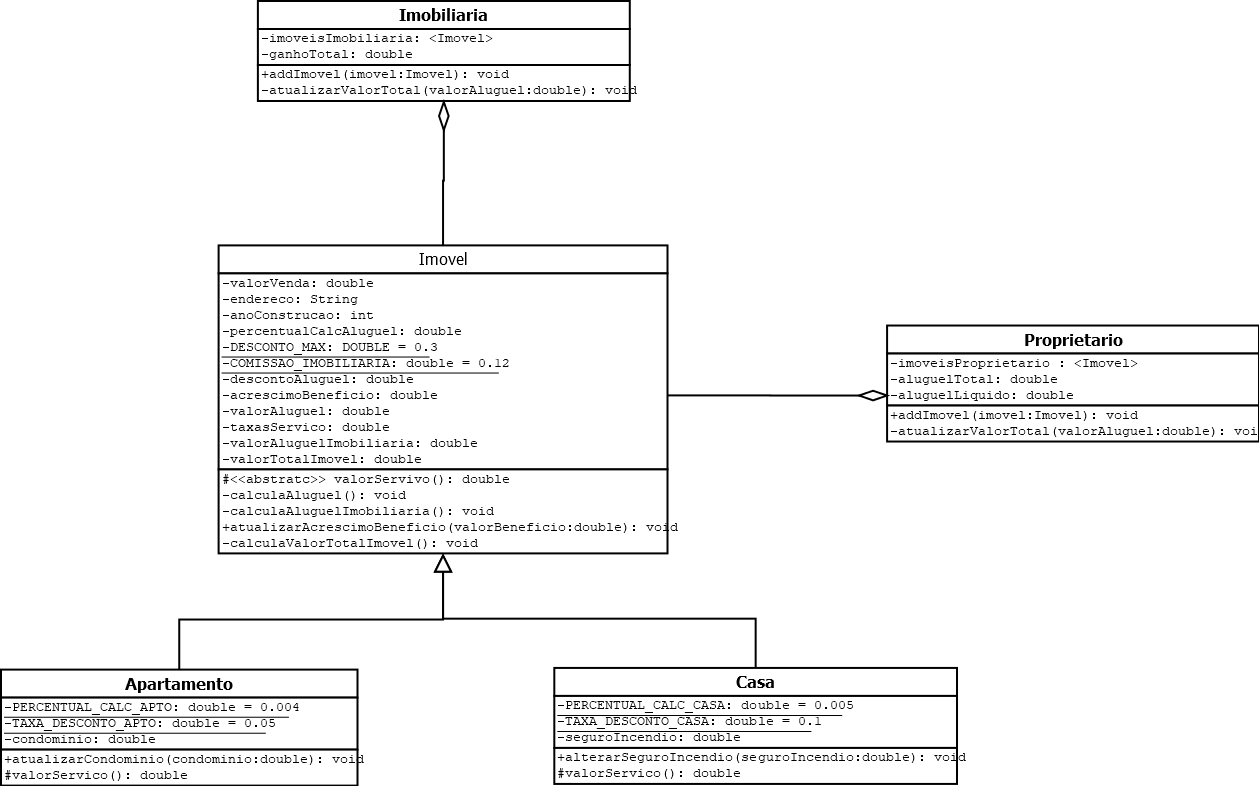
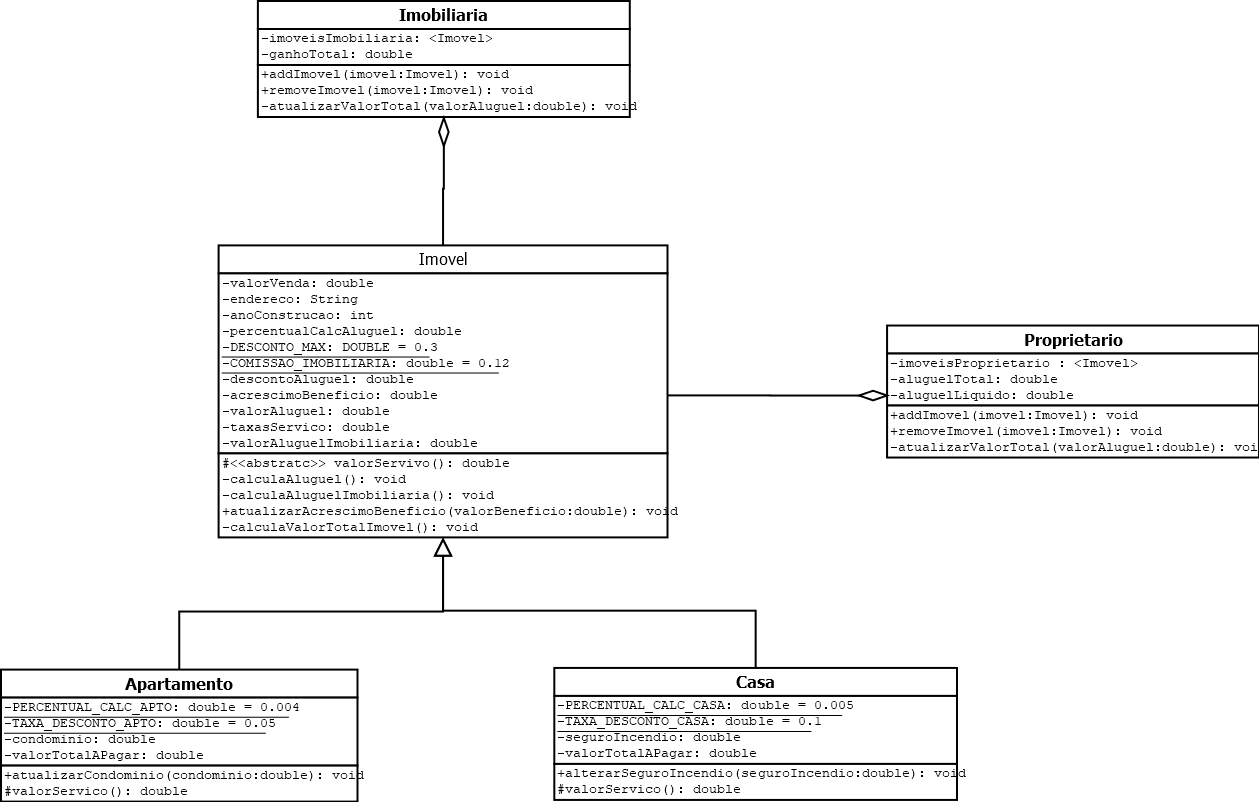
Criação da Classe apartamento

diff --git a/Imovel.java b/Imovel.java
@@ -1,45 +1,87 @@
+import java.util.Calendar;
 
 public abstract class Imovel {
 
-    double valorVenda, percentualCalcAluguel, descontoAluguel, acrescimoBeneficio;
-    double valorAluguel, taxasServico, ValorAluguelImobiliaria,valorTotalImovel;
-    final static double DESCONTO_MAX = 0.3 , COMISSAO_IMOBILIARIA = 0.12;
+    private double valorVenda;
+    private double percentualCalcAluguel;
+    private double taxaDesconto;
+    private double descontoAluguel;
+    private double acrescimoBeneficio;
+    private double valorAluguel;
+    private double ValorAluguelImobiliaria;
+    final static double DESCONTO_MAX = 0.3;
+    final static double COMISSAO_IMOBILIARIA = 0.12;
     String endereco;
     int anoConstrucao;
 
- 
     protected abstract double valorServico();
 
-    public Imovel(String endereco, int anoConstrucao, double valorVenda, double acrescimoBeneficio , double taxasServico,
-    double percentualCalcAluguel , double descontoAluguel){
+    public Imovel(String endereco, int anoConstrucao, double valorVenda, double acrescimoBeneficio,
+    double percentualCalcAluguel , double taxaDesconto){
+
+        inicializar(endereco,anoConstrucao,valorVenda,acrescimoBeneficio,percentualCalcAluguel,taxaDesconto);
 
     }
 
-    private void atualizaAlugueis(){
+    private void inicializar(String endereco, int anoConstrucao, double valorVenda, double acrescimoBeneficio,
+            double percentualCalcAluguel, double taxaDesconto) {
+            
+        this.endereco = endereco;
+        if (anoConstrucao >1800){
+            this.anoConstrucao = anoConstrucao;
+        }
+        else{
+            this.anoConstrucao = 1800;
+        }
+
+        if(valorVenda<=0){
+            valorVenda = 200000;
+        }
+        this.valorVenda = valorVenda;
+        this.acrescimoBeneficio = acrescimoBeneficio;
+        this.percentualCalcAluguel = percentualCalcAluguel;
+        this.taxaDesconto = taxaDesconto;
+        atualizaAlugueis();
+        
+    }
+
+    private void calculaDesconto() {
+        Calendar data = Calendar.getInstance();
+        int anoAtual = data.get(Calendar.YEAR);
+
+        double desconto = ((anoAtual - this.anoConstrucao) / 5) * this.taxaDesconto;
+
+        if (desconto > DESCONTO_MAX) {
+            desconto = DESCONTO_MAX;
+        }
+
+        this.descontoAluguel = desconto;
+    }
+
+    private void atualizaAlugueis() {
+        calculaDesconto();
         calculaAluguel();
         calculaAluguelImobiliaria();
-        calculaValorTotalImovel();
     }
 
-    private void calculaAluguel(){
-        this.valorAluguel = (valorVenda * percentualCalcAluguel) + acrescimoBeneficio;
+    private void calculaAluguel() {
+        this.valorAluguel = ((valorVenda * percentualCalcAluguel) * (1-descontoAluguel)) + acrescimoBeneficio;
     }
 
-    private void calculaAluguelImobiliaria(){
+    private void calculaAluguelImobiliaria() {
         this.ValorAluguelImobiliaria = this.valorAluguel * COMISSAO_IMOBILIARIA;
     }
 
-    private void calculaValorTotalImovel(){
-        this.ValorAluguelImobiliaria = this.valorAluguel + taxasServico;
-    }
-
     /**
-     * Inserir valor do aluguel relacionado a beneficios do imovel. Apenas valores maior que zero são validos.
-     * Caso um valor invalido for inserido, o valor referente ao beneficio não será atualizado.
+     * Inserir valor do aluguel relacionado a beneficios do imovel. Apenas valores
+     * maior que zero são validos.
+     * Caso um valor invalido for inserido, o valor referente ao beneficio não será
+     * atualizado.
+     * 
      * @param valorBeneficio
      */
-    public void atualizarAcrescimoBeneficio (double valorBeneficio){
-        if (valorBeneficio>0){
+    public void atualizarAcrescimoBeneficio(double valorBeneficio) {
+        if (valorBeneficio > 0) {
             this.acrescimoBeneficio = valorBeneficio;
             atualizaAlugueis();
         }
@@ -48,62 +90,61 @@ public abstract class Imovel {
     // Metodos SET
     /**
      * Atualizar o valor de venda do imovel.
-     * Apenas valores maiores que zero são validos. Caso seja inserido um valor invalido, não haverá atualização.
+     * Apenas valores maiores que zero são validos. Caso seja inserido um valor
+     * invalido, não haverá atualização.
+     * 
      * @param valorVenda
      */
-    public void setValorVenda(double valorVenda){
-        if (valorVenda>0){
+    public void setValorVenda(double valorVenda) {
+        if (valorVenda > 0) {
             this.valorVenda = valorVenda;
             atualizaAlugueis();
         }
     }
-    /** 
+
+    /**
      * Atualizar Endereço do imovel.
-     *Caso seja inserido um valor invalido, não haverá atualização.
+     * Caso seja inserido um valor invalido, não haverá atualização.
+     * 
      * @param endereco
      */
-    public void setEndereco(String endereco){
-        if(!endereco.isEmpty()){
+    public void setEndereco(String endereco) {
+        if (!endereco.isEmpty()) {
             this.endereco = endereco;
         }
     }
-    
+
     /**
      * Atualizar Ano de Construção do imovel.
-     * Apenas valores maior que 1800 são validos. Caso seja inserido um valor invalido, não haverá atualização.
+     * Apenas valores maior que 1800 são validos. Caso seja inserido um valor
+     * invalido, não haverá atualização.
+     * 
      * @param anoConstrucao
      */
-    public void setAnoConstrucao(int anoConstrucao){
-        if (anoConstrucao>1800){
+    public void setAnoConstrucao(int anoConstrucao) {
+        if (anoConstrucao > 1800) {
             this.anoConstrucao = anoConstrucao;
+            calculaAluguel();
         }
     }
 
     // Metodos GET
     /**
      * Retornona o valor do aluguel refente ao Imovel.
+     * 
      * @return
      */
-    public double getValorAluguel(){
+    public double getValorAluguel() {
         return this.valorAluguel;
     }
 
     /**
      * Retorna o valor do percentual do aluguel que é a comissão da imobiliaria.
+     * 
      * @return
      */
-    public double getValorAluguelImobiliaria(){
-        return this.getValorAluguel();
-    }
-
-    /**
-     * Retona o valor todo pago no Imovel, incluindo as taxas de serviço.
-     * @return
-     */
-    public double getValorTotalImovel(){
-        return this.valorTotalImovel;
+    public double getValorAluguelImobiliaria() {
+        return this.ValorAluguelImobiliaria;
     }
 
 }
-
-

diff --git a/Casa.java b/Casa.java
@@ -1,44 +1,44 @@
-public class Apartamento extends Imovel {
+public class Casa extends Imovel {
 
-    final static double PERCENTUAL_CALC_APTO = 0.004;
-    final static double TAXA_DESCONTO_APTO = 0.05;
-    private double condominio;
+    final static double PERCENTUAL_CALC_CASA = 0.005;
+    final static double TAXA_DESCONTO_CASA = 0.1;
+    private double seguroIncendio;
     private double valorTotalAPagar;
 
     /**
      * Cria um novo apartamento como obejto. 
      * Caso o valor de venda inserirdo seja invalido, será considerado um valor de R$200.000,00.
      * Caso o ano de Construção inserido seja invalido (menor que 1800), será considerado o ano de 1800.
-     * Caso o valor de condominio inserido seja invalido, a taxa será considerada 0.
+     * Caso o valor de taxa de incencio inserido seja invalido, a taxa será considerada 0.
      * @param endereco
      * @param anoConstrucao
      * @param valorVenda
      * @param acrescimoBeneficio
      * @param condominio
      */
-    public Apartamento(String endereco, int anoConstrucao, double valorVenda, double acrescimoBeneficio , double condominio){
-        super(endereco,anoConstrucao,valorVenda,acrescimoBeneficio,PERCENTUAL_CALC_APTO,TAXA_DESCONTO_APTO);
-        inicializar(condominio);
+    public Casa(String endereco, int anoConstrucao, double valorVenda, double acrescimoBeneficio , double seguroIncendio){
+        super(endereco,anoConstrucao,valorVenda,acrescimoBeneficio,PERCENTUAL_CALC_CASA,TAXA_DESCONTO_CASA);
+        inicializar(seguroIncendio);
     }      
     
     
-    private void inicializar(double condominio) {
-        if(condominio<0){
-            condominio = 0 ;
+    private void inicializar(double seguroIncendio) {
+        if(seguroIncendio<0){
+            seguroIncendio = 0 ;
         }
-        atualizaCondominio(condominio);
+        atualizaSeguroIncendio(seguroIncendio);
         valorServico();
     }
 
 
     /**
-     * Atualizar o valor do condominio do apartamento.
+     * Atualizar o valor do Seguro Incendio da  Casa.
      * Apenas valores maiores ou iguais a zero são validos. Caso seja inserido um valor invalido, não haverá atualização.
      * @param condominio
      */
-     public void atualizaCondominio(double condominio){
-        if(condominio>=0){
-            this.condominio = condominio;
+     public void atualizaSeguroIncendio(double seguroIncendio){
+        if(seguroIncendio>=0){
+            this.seguroIncendio = seguroIncendio;
         }
     }
 
@@ -56,7 +56,7 @@ public class Apartamento extends Imovel {
      * @return
      */
     protected double valorServico() {
-        double valorServico = this.condominio;
+        double valorServico = this.seguroIncendio / 12;
         this.valorTotalAPagar = getValorAluguel() + valorServico;
         return valorServico;
     }

diff --git a/Proprietario.java b/Proprietario.java
@@ -1,0 +1,54 @@
+import java.util.ArrayList;
+
+public class Proprietario {
+
+    private ArrayList<Imovel> imoveisProprietario;
+    private double somaAluguelTotal;
+    private double somaAluguelLiquido;
+
+    public Proprietario(){
+        inicializar();
+    }
+
+    public Proprietario(Imovel imovel){
+        inicializar();
+        addImovel(imovel);
+    }
+
+    private void inicializar() {
+        this.somaAluguelLiquido = this.somaAluguelTotal = 0;
+        imoveisProprietario = new ArrayList<>();
+    }
+
+    public void addImovel(Imovel imovel){
+        imoveisProprietario.add(imovel);
+        atualizaSomasValor(imovel.getValorAluguel(), imovel.getValorAluguel()- imovel.getValorAluguelImobiliaria());
+    }
+
+    public void removeImovel(Imovel imovel){
+        imoveisProprietario.remove(imovel);
+        atualizaSomasValor(0-imovel.getValorAluguel(),0 - (imovel.getValorAluguel()- imovel.getValorAluguelImobiliaria()));
+    }
+
+    private void atualizaSomasValor(double aluguel, double aluguelLiquido){
+        this.somaAluguelTotal += aluguel;
+        this.somaAluguelLiquido+= aluguelLiquido;
+    }
+
+    /**
+     * Retorna a soma do valor total dos alugueis de todos os imoveis de um proprietario.
+     * @return
+     */
+    public double getSomaAluguelTotal(){
+        return somaAluguelTotal;
+    }
+
+    /**
+     * Retorna a soma do valor que é recebido dos alugueis de todos os imoveis de um proprietario.
+     * @return
+     */
+    public double getSomaAluguelLiquido(){
+        return somaAluguelLiquido;
+    }
+    
+}

diff --git a/appTeste.java b/appTeste.java
@@ -1,0 +1,48 @@
+public class appTeste {
+
+    public static void main(String[] args) {
+        
+        Imobiliaria ceuLar = new Imobiliaria();
+        Proprietario rafs = new Proprietario();
+        Imovel casa1 = new Casa("Rua 1", 1990, 300000, 500, 1400);
+        Imovel ape1 = new Apartamento("Rua 2", 2017, 250000, 150, 43);
+
+        System.out.println(casa1.getValorAluguel());
+        System.out.println(casa1.getValorAluguelImobiliaria());
+        System.out.println(ape1.getValorAluguel());
+        System.out.println(ape1.getValorAluguelImobiliaria());
+
+        System.out.println(ceuLar.getGanhoTotal());
+        System.out.println(rafs.getSomaAluguelTotal());
+
+        ceuLar.addImovel(casa1);
+        rafs.addImovel(casa1);
+
+        System.out.println(ceuLar.getGanhoTotal());
+        System.out.println(rafs.getSomaAluguelTotal());
+        System.out.println(rafs.getSomaAluguelLiquido());
+        System.out.println();
+
+        ceuLar.addImovel(ape1);
+        rafs.addImovel(ape1);
+
+        System.out.println(ceuLar.getGanhoTotal());
+        System.out.println(rafs.getSomaAluguelTotal());
+        System.out.println(rafs.getSomaAluguelLiquido());
+        System.out.println();
+
+        ceuLar.removeImovel(ape1);
+        rafs.removeImovel(ape1);
+
+        System.out.println(ceuLar.getGanhoTotal());
+        System.out.println(rafs.getSomaAluguelTotal());
+        System.out.println(rafs.getSomaAluguelLiquido());
+        System.out.println();
+
+
+
+
+        
+    }
+    
+}

diff --git a/Imobiliaria.java b/Imobiliaria.java
@@ -2,7 +2,7 @@ import java.util.ArrayList;
 
 public class Imobiliaria {
     ArrayList<Imovel> imoveisImobiliaria;
-    double ganhoTotal;
+    private double ganhoTotal;
     
     /** Cria o objeto Imobiliaria sem adicionar nenhum imovel na lista. O valor de ganho total é estabelicido como ZERO */
     public Imobiliaria (){
@@ -27,6 +27,11 @@ public class Imobiliaria {
         atualizarValorTotal(imovel.getValorAluguelImobiliaria());
     }
 
+    public void removeImovel(Imovel imovel){
+        imoveisImobiliaria.remove(imovel);
+        atualizarValorTotal(0- imovel.getValorAluguelImobiliaria());
+    }
+
     private void inicializar(){
         imoveisImobiliaria = new ArrayList<>();
         ganhoTotal = 0;
@@ -34,5 +39,9 @@ public class Imobiliaria {
 
     private void atualizarValorTotal (double valorAluguel){
         this.ganhoTotal += valorAluguel;
+    }
+
+    public double getGanhoTotal(){
+        return ganhoTotal;
     }
 }
